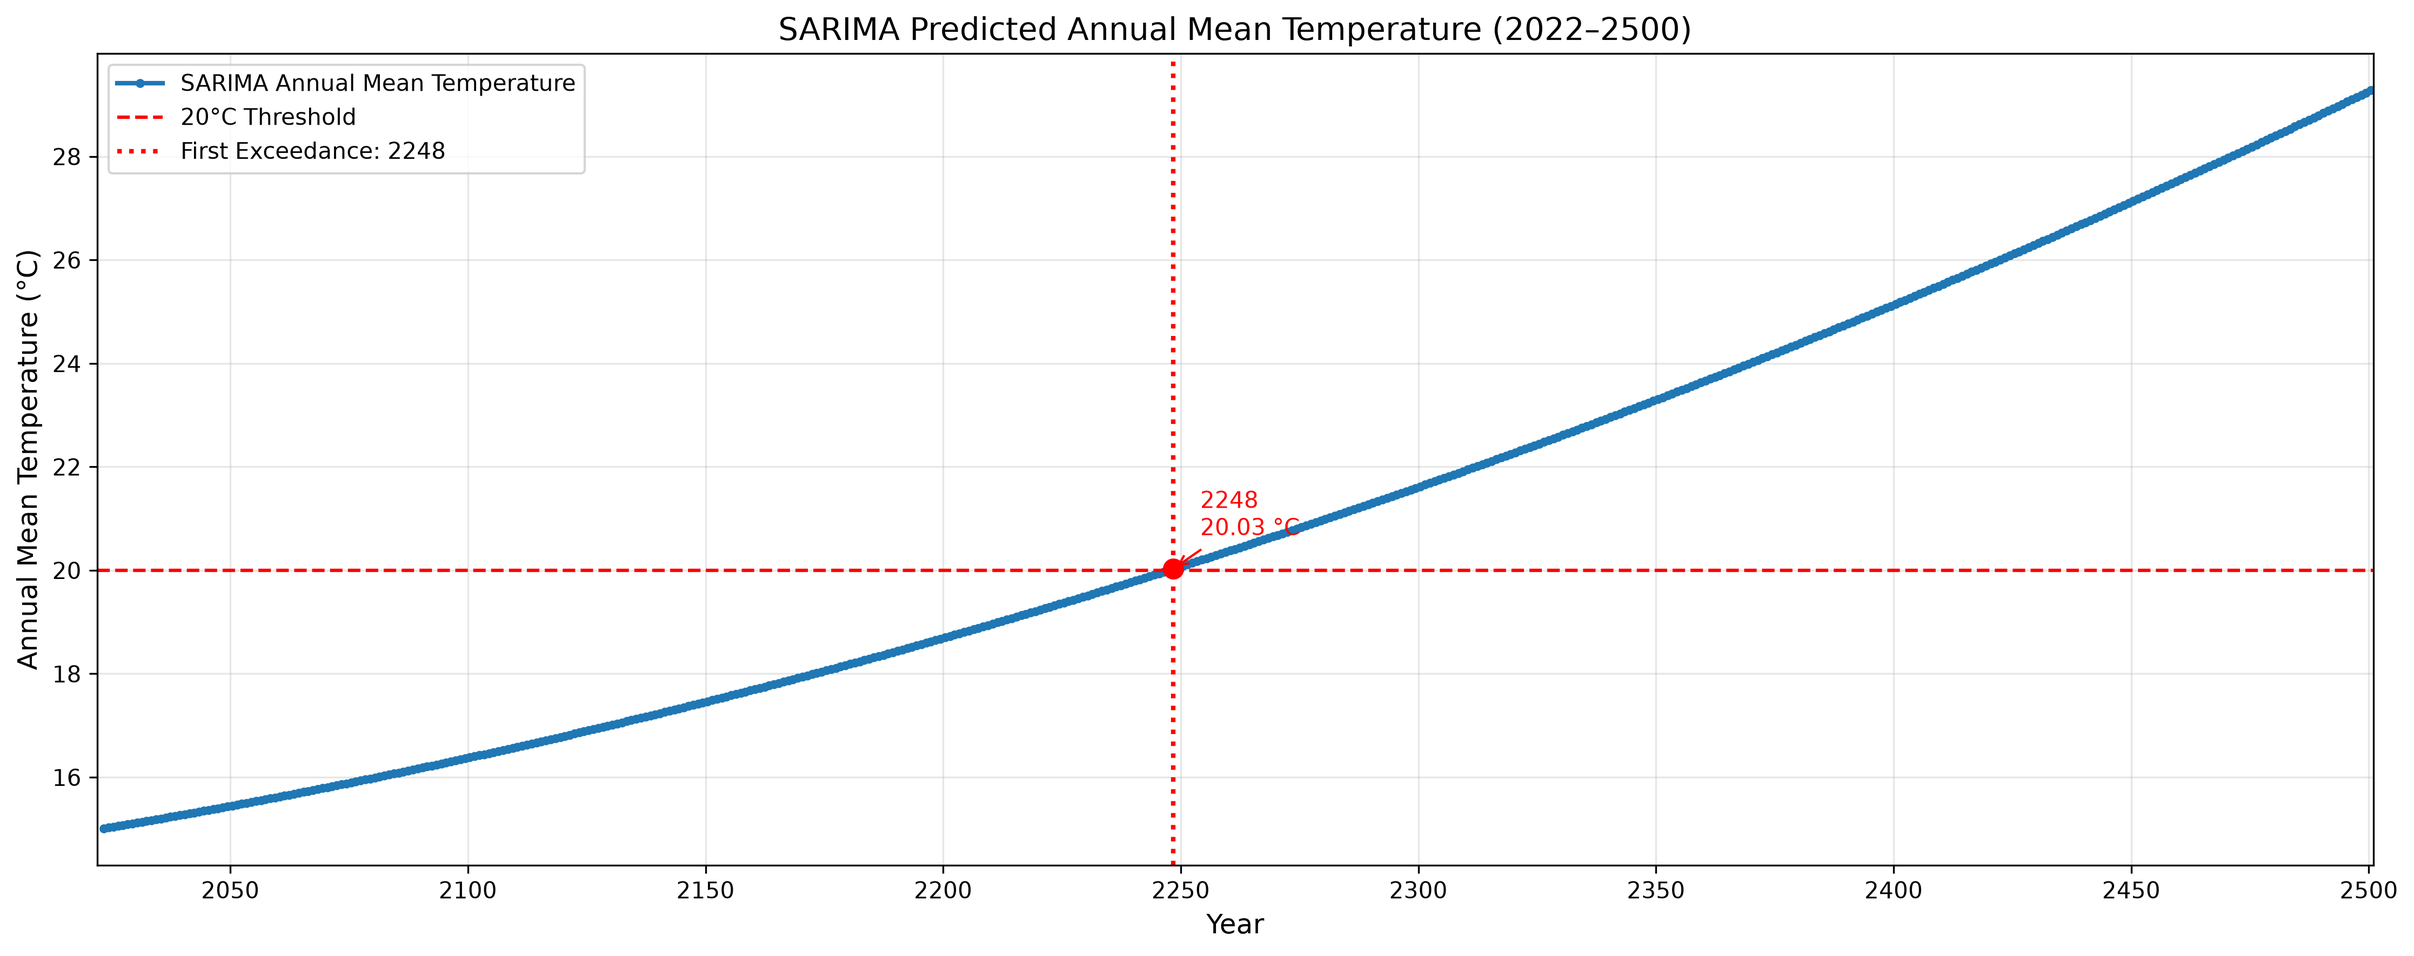
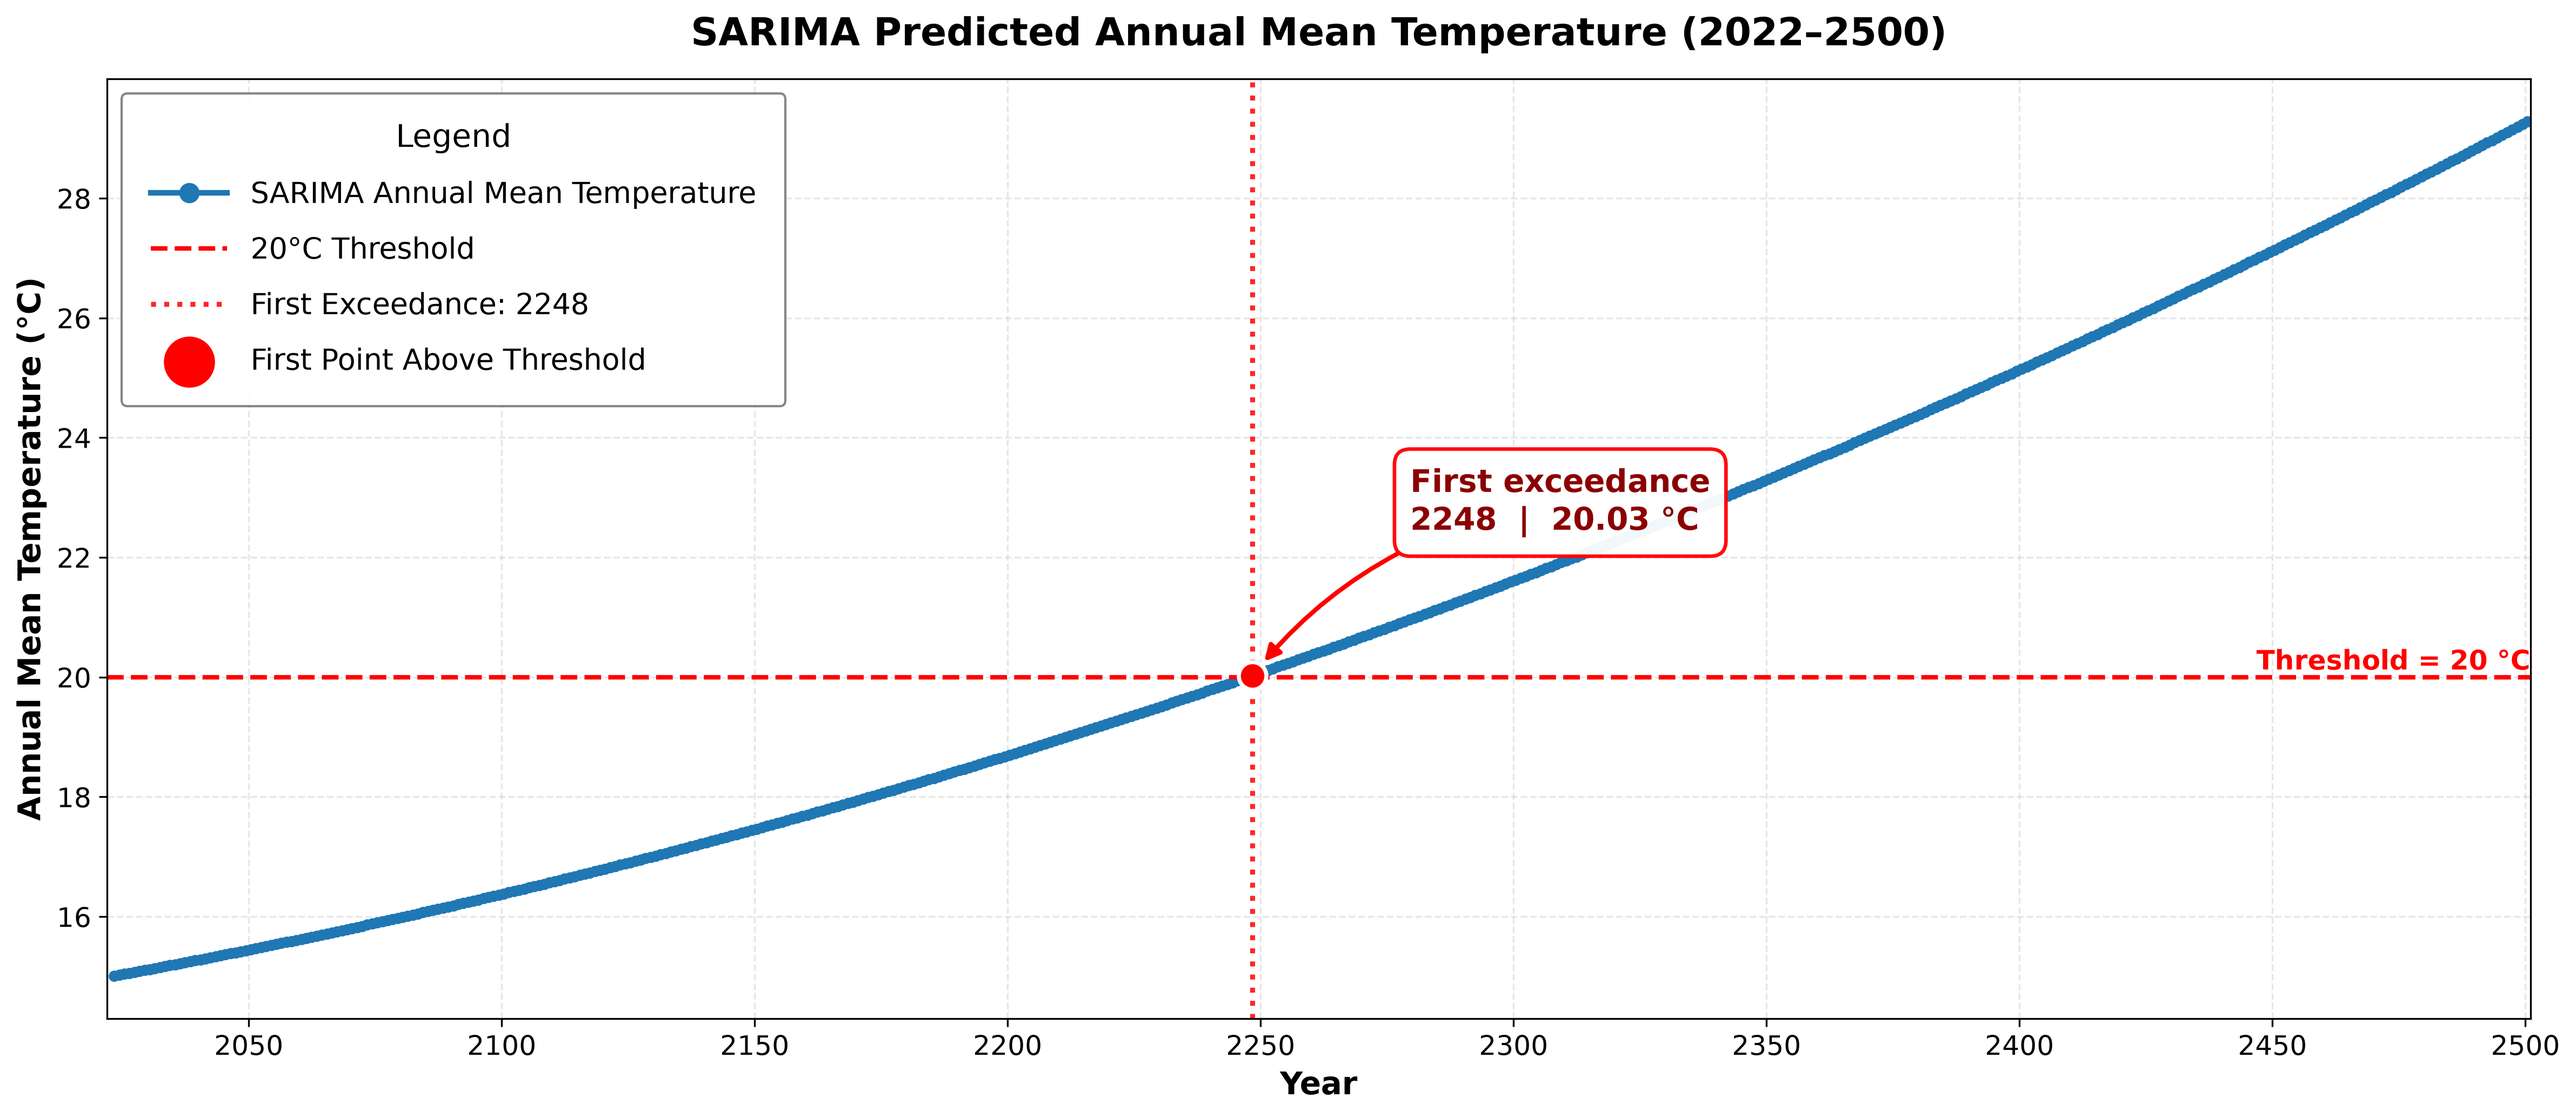
add: new draw_c

diff --git a/python/Q1/SARIMA/draw_c.py b/python/Q1/SARIMA/draw_c.py
@@ -238,26 +238,37 @@ else:
 # 4. 绘制2022—2500年年度平均气温曲线
 # ============================================================
 
-plt.figure(figsize=(15, 6))
+plt.figure(figsize=(16, 7), dpi=120)
 
-# SARIMA年度平均气温曲线
 plt.plot(
     annual_mean.index,
     annual_mean.values,
-    linewidth=2,
+    linewidth=2.5,
     linestyle="-",
     marker="o",
-    markersize=3,
+    markersize=4,
     label="SARIMA Annual Mean Temperature"
 )
 
-# 20°C水平参考线
+# 20°C水平参考线（标签里带上阈值数值）
 plt.axhline(
     y=threshold,
     color="red",
     linestyle="--",
-    linewidth=1.5,
-    label="20°C Threshold"
+    linewidth=2,
+    label=f"{threshold}°C Threshold"
+)
+
+# 阈值右侧文字标注，防止和图例挤在一起
+plt.text(
+    pd.Timestamp("2500-12-31"),
+    threshold + 0.02,
+    f"Threshold = {threshold} °C",
+    ha="right",
+    va="bottom",
+    fontsize=12,
+    fontweight="bold",
+    color="red"
 )
 
 # ============================================================
@@ -272,43 +283,70 @@ if exceed_year is not None:
         x=exceed_x,
         color="red",
         linestyle=":",
-        linewidth=2,
+        linewidth=2.2,
+        alpha=0.85,
         label=f"First Exceedance: {exceed_year}"
     )
 
-    # 标记首次超过20°C的点
+    # 标记首次超过20°C的点（加大、白边，更醒目）
     plt.scatter(
         exceed_x,
         exceed_temperature,
         color="red",
-        s=70,
-        zorder=5
+        s=150,
+        edgecolors="white",
+        linewidths=1.8,
+        zorder=6,
+        label="First Point Above Threshold"
     )
 
-    # 标注年份
+    # 根据点位在横轴左/右半区，自动决定标注方向，避免出界
+    mid_year = annual_mean.index[0] + (annual_mean.index[-1] - annual_mean.index[0]) / 2
+    if exceed_x <= mid_year:
+        offset, ha = (70, 60), "left"
+    else:
+        offset, ha = (-70, 60), "right"
+
     plt.annotate(
-        f"{exceed_year}\n{exceed_temperature:.2f} °C",
+        f"First exceedance\n{exceed_year}  |  {exceed_temperature:.2f} °C",
         xy=(exceed_x, exceed_temperature),
-        xytext=(12, 15),
+        xytext=offset,
         textcoords="offset points",
-        fontsize=10,
-        color="red",
+        fontsize=14,
+        fontweight="bold",
+        color="darkred",
+        ha=ha,
+        va="bottom",
+        bbox=dict(
+            boxstyle="round,pad=0.5",
+            facecolor="white",
+            edgecolor="red",
+            linewidth=1.6,
+            alpha=0.95
+        ),
         arrowprops=dict(
-            arrowstyle="->",
-            color="red"
-        )
+            arrowstyle="-|>",
+            color="red",
+            linewidth=2,
+            shrinkA=0,
+            shrinkB=8,
+            connectionstyle="arc3,rad=0.2"
+        ),
+        zorder=7
     )
 
 # ============================================================
 # 6. 图像设置
 # ============================================================
 
-plt.xlabel("Year", fontsize=12)
-plt.ylabel("Annual Mean Temperature (°C)", fontsize=12)
+plt.xlabel("Year", fontsize=14, fontweight="bold")
+plt.ylabel("Annual Mean Temperature (°C)", fontsize=14, fontweight="bold")
 
 plt.title(
     "SARIMA Predicted Annual Mean Temperature (2022–2500)",
-    fontsize=14
+    fontsize=17,
+    fontweight="bold",
+    pad=15
 )
 
 plt.xlim(
@@ -316,8 +354,24 @@ plt.xlim(
     pd.Timestamp("2500-12-31")
 )
 
-plt.grid(alpha=0.3)
-plt.legend(fontsize=10)
+plt.grid(alpha=0.3, linestyle="--")
+plt.xticks(fontsize=12)
+plt.yticks(fontsize=12)
+
+plt.legend(
+    loc="upper left",
+    fontsize=13,              # 图例正文放大
+    title="Legend",
+    title_fontsize=14,        # 图例标题放大
+    frameon=True,
+    framealpha=0.95,
+    facecolor="white",
+    edgecolor="gray",
+    borderpad=1.0,
+    labelspacing=0.9,
+    handlelength=2.6,
+    markerscale=2.0           # 图例中的标记点放大
+)
 
 plt.tight_layout()
 
